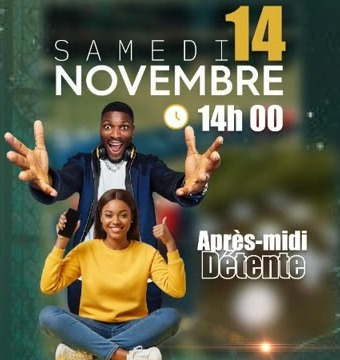
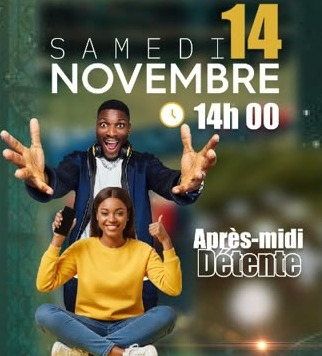
Fond animé visible, programme et partenaires

diff --git a/public/css/style.css b/public/css/style.css
@@ -19,10 +19,9 @@
 
 * { box-sizing: border-box; }
 html, body { margin: 0; }
-html { background: #03130f; }
-body {
-  font-family: var(--sans);
-  background:
+html {
+  background-color: #03130f;
+  background-image:
     radial-gradient(2px 2px at 12% 18%, rgba(243, 227, 163, .55), transparent 60%),
     radial-gradient(1.5px 1.5px at 78% 12%, rgba(243, 227, 163, .45), transparent 60%),
     radial-gradient(2px 2px at 88% 46%, rgba(243, 227, 163, .35), transparent 60%),
@@ -32,6 +31,11 @@ body {
     radial-gradient(1200px 700px at 50% -220px, color-mix(in srgb, var(--primary) 85%, transparent), transparent 72%),
     linear-gradient(180deg, var(--bg-2), var(--bg) 55%);
   background-attachment: fixed;
+  min-height: 100%;
+}
+body {
+  font-family: var(--sans);
+  background: transparent;
   color: var(--text);
   min-height: 100vh;
   -webkit-font-smoothing: antialiased;
@@ -236,14 +240,14 @@ select option { color: #111; }
 .bgfx img {
   position: absolute; inset: -20px; width: calc(100% + 40px); height: calc(100% + 40px);
   object-fit: cover; object-position: center 30%; opacity: 0; transform: scale(1.06);
-  filter: saturate(1.05) blur(1px); transition: opacity 2s ease, transform 8s ease;
+  filter: saturate(1.1); transition: opacity 2s ease, transform 8s ease;
 }
-.bgfx img.on { opacity: .38; transform: scale(1); }
+.bgfx img.on { opacity: .62; transform: scale(1); }
 .bgfx .veil {
   position: absolute; inset: 0;
   background:
     radial-gradient(900px 500px at 50% 0%, rgba(3, 19, 15, .35), transparent 70%),
-    linear-gradient(180deg, rgba(3, 19, 15, .55), rgba(3, 19, 15, .82) 45%, rgba(3, 19, 15, .95));
+    linear-gradient(180deg, rgba(3, 19, 15, .25), rgba(3, 19, 15, .55) 30%, rgba(3, 19, 15, .85) 60%, rgba(3, 19, 15, .95));
 }
 .card { backdrop-filter: blur(6px); -webkit-backdrop-filter: blur(6px); background-color: rgba(10, 47, 37, .82); }
 
@@ -260,3 +264,16 @@ select option { color: #111; }
 .partner .plogo { width: 120px; height: 72px; background: #fff; border-radius: 12px; display: grid; place-items: center; padding: 8px; box-shadow: 0 0 0 1px var(--line); }
 .partner img { max-width: 100%; max-height: 100%; object-fit: contain; }
 .partner .pname { text-align: center; line-height: 1.2; }
+
+/* Encart « Au programme ce week-end » */
+.programme { margin-top: 18px; text-align: center; }
+.programme .kicker { display: block; letter-spacing: .25em; text-transform: uppercase; font-size: 11px; color: var(--accent); margin-bottom: 12px; }
+.prog-track { display: flex; gap: 12px; overflow-x: auto; scroll-snap-type: x mandatory; scrollbar-width: none; padding-bottom: 4px; }
+.prog-track::-webkit-scrollbar { display: none; }
+.prog-track img {
+  flex: 0 0 calc(50% - 6px); scroll-snap-align: start; width: calc(50% - 6px); aspect-ratio: 3 / 4; object-fit: cover;
+  border-radius: 14px; box-shadow: 0 0 0 1px var(--line), 0 12px 30px rgba(0,0,0,.35); cursor: zoom-in;
+}
+.prog-dots { display: flex; gap: 6px; justify-content: center; margin-top: 10px; }
+.prog-dots span { width: 6px; height: 6px; border-radius: 50%; background: rgba(243,227,163,.3); }
+.prog-dots span.on { background: var(--accent); }

diff --git a/public/js/common.js b/public/js/common.js
@@ -44,6 +44,29 @@
     }, every);
   };
 
+  /* ---------- Encart « Au programme ce week-end » ---------- */
+  G.renderProgramme = function (el, list) {
+    el = typeof el === 'string' ? G.$(el) : el;
+    if (!el || !list || !list.length) return;
+    el.innerHTML = `<span class="kicker">Au programme ce week-end</span>
+      <div class="prog-track">${list.map(src => `<img src="${G.esc(src)}" alt="" loading="lazy">`).join('')}</div>
+      ${list.length > 2 ? `<div class="prog-dots">${list.map((_, i) => `<span class="${i ? '' : 'on'}"></span>`).join('')}</div>` : ''}`;
+    el.hidden = false;
+    const track = el.querySelector('.prog-track');
+    el.querySelectorAll('img').forEach((img, i) => {
+      img.onclick = () => G.lightbox(list.map(src => ({ url: src, download: src, album: 'Programme du week-end' })), i);
+    });
+    // Défilement automatique quand il y a plus de visuels que de places
+    if (list.length > 2) {
+      let k = 0;
+      setInterval(() => {
+        k = (k + 1) % list.length;
+        track.scrollTo({ left: track.children[k].offsetLeft - track.offsetLeft, behavior: 'smooth' });
+        el.querySelectorAll('.prog-dots span').forEach((d, j) => d.classList.toggle('on', j === k));
+      }, 4000);
+    }
+  };
+
   /* ---------- Bandeau des partenaires ---------- */
   G.renderPartners = async function (el) {
     el = typeof el === 'string' ? G.$(el) : el;

diff --git a/public/index.html b/public/index.html
@@ -87,12 +87,13 @@
       <button class="btn btn-ghost small mt" id="forget" style="font-size:13px">Effacer mon empreinte de ce téléphone</button>
     </section>
 
+    <section id="programme" class="programme" hidden></section>
+    <section id="partners" class="partners" hidden></section>
+
     <div class="center mt-l" id="galleryLink" hidden>
       <a class="btn btn-ghost" href="/galerie">Voir toutes les photos de la soirée →</a>
     </div>
   </main>
-
-  <section id="partners" class="partners narrow" hidden></section>
 
   <footer class="footer">Photos officielles du photographe de l’événement.</footer>
 
@@ -104,6 +105,7 @@
     const cfg = await Gala.loadConfig();
     $('#galleryLink').hidden = !cfg.publicGallery;
     Gala.startBackground(cfg.backgrounds);
+    Gala.renderProgramme('#programme', cfg.backgrounds);
     Gala.renderPartners('#partners');
     const KEY = 'gala_face_' + location.host;
     const ZIP_CHUNK = 80;
